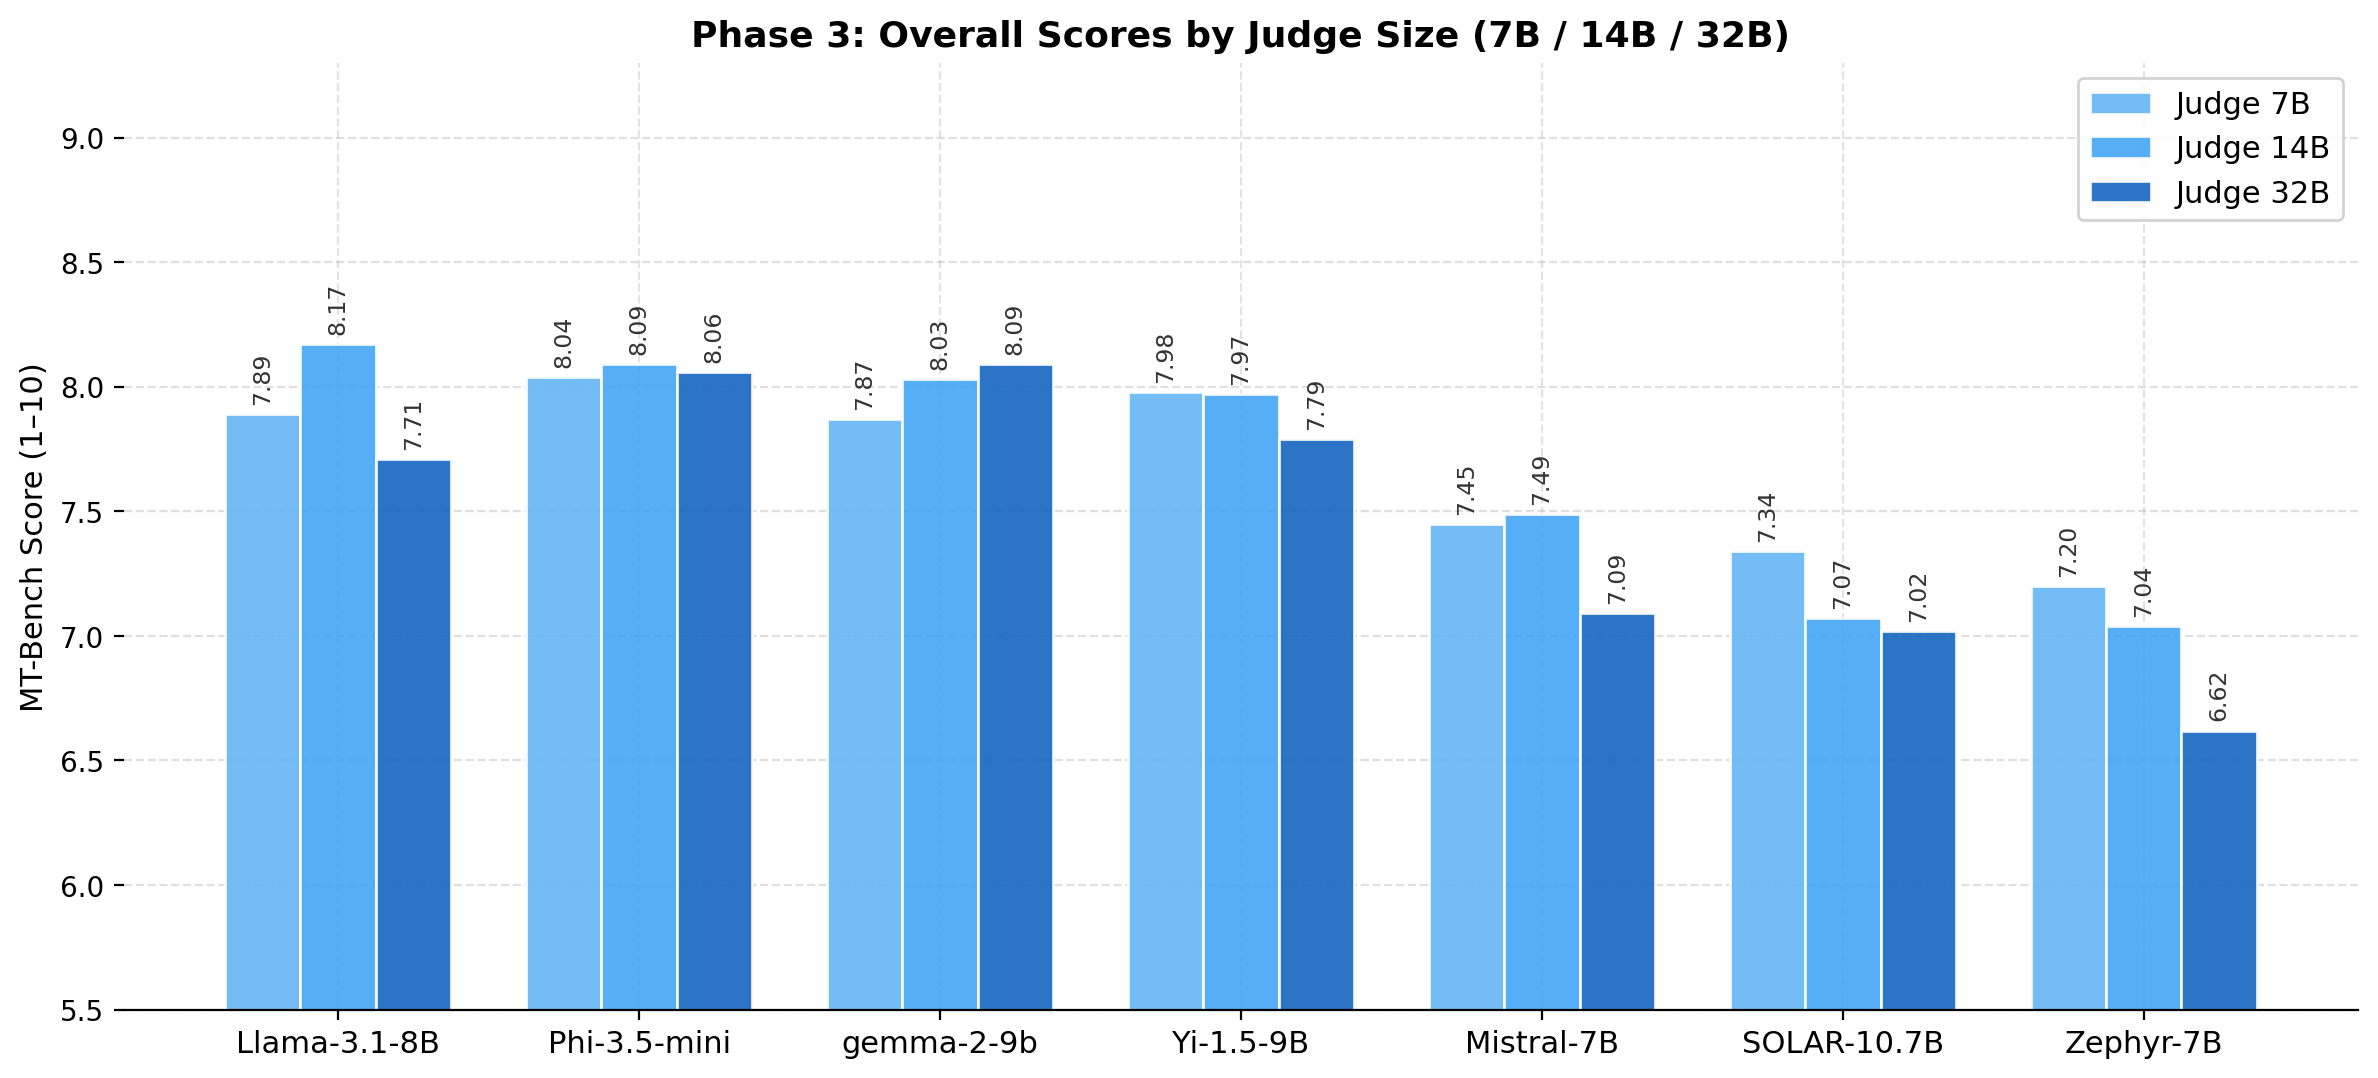
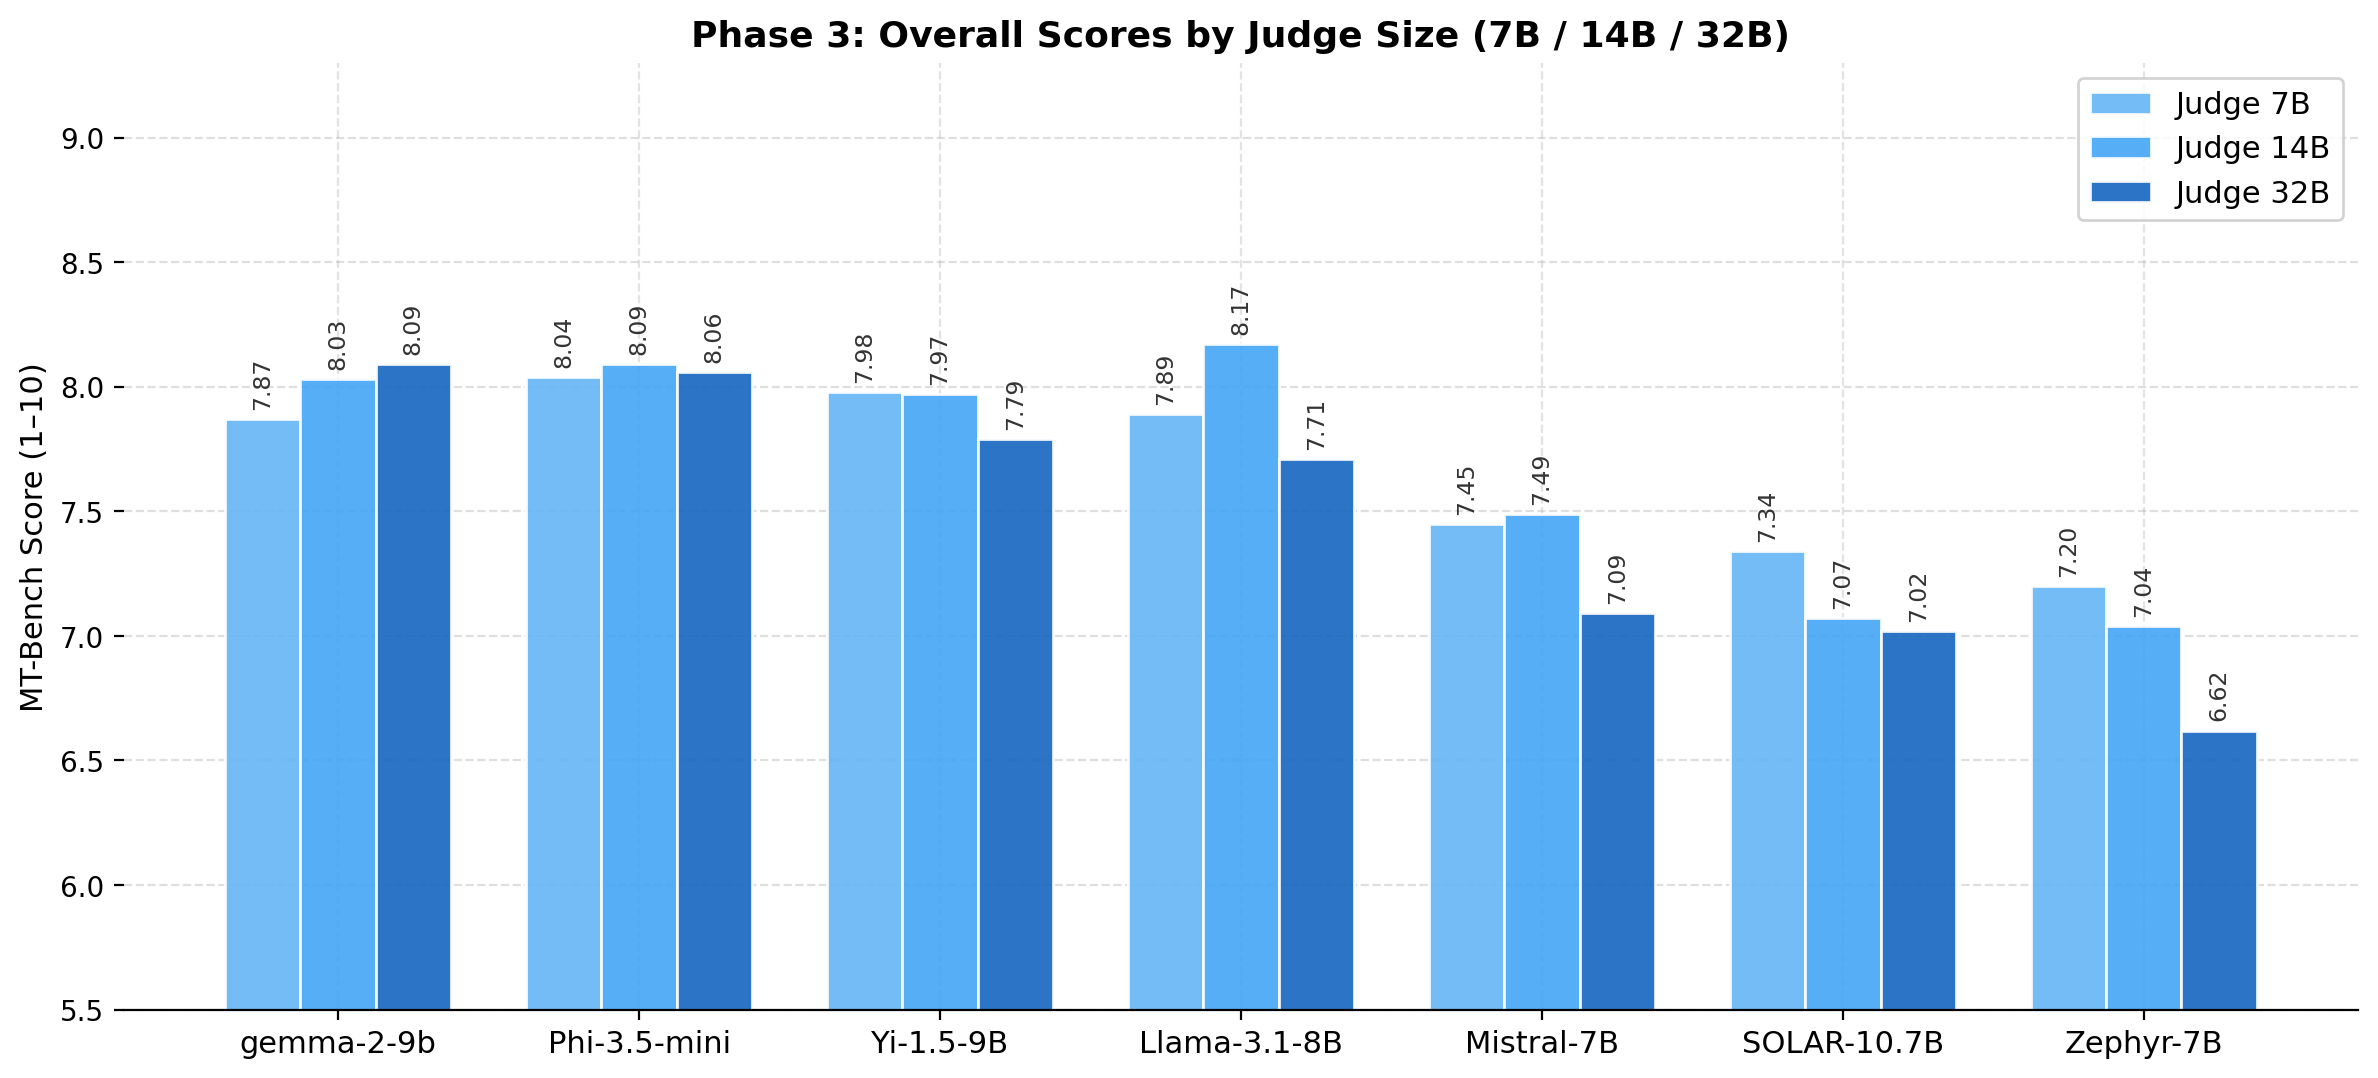
fix: regenerate all figures with Phase 3 as primary
- mt_bench_summary.png: panels A/B now show Phase 3 (32B judge) scores and heatmap
- fig5_phase3_scores.png: models sorted by 32B judge (not 14B)
- All Phase 3 figures sorted by 32B judge (primary — lowest inconsistency)
- Summary title updated to reflect Phase 3 primary results

diff --git a/scripts/generate_figures.py b/scripts/generate_figures.py
@@ -422,8 +422,8 @@ def fig_judge_scaling():
 def fig_phase3_scores():
     judge_sizes = ["7B", "14B", "32B"]
     models = PHASE3_MODELS_FULL
-    # sort by 14B score (canonical)
-    models_sorted = sorted(models, key=lambda m: PHASE3_OVERALL["14B"][m], reverse=True)
+    # sort by 32B score (주 judge — 불일치율 최소)
+    models_sorted = sorted(models, key=lambda m: PHASE3_OVERALL["32B"][m], reverse=True)
 
     x = np.arange(len(models_sorted))
     width = 0.25
@@ -564,33 +564,36 @@ def fig_summary_banner():
 
     gs = gridspec.GridSpec(2, 3, figure=fig, hspace=0.52, wspace=0.38)
 
-    # ── (A) Phase 2 Overall ───────────────────────────────────────────────────
+    # ── (A) Phase 3 Overall Scores — 32B judge (primary) ─────────────────────
     ax_a = fig.add_subplot(gs[0, 0])
-    models_sorted = sorted(PHASE2_OVERALL, key=lambda m: PHASE2_OVERALL[m])
-    vals = [PHASE2_OVERALL[m] for m in models_sorted]
-    colors = [PALETTE_MAIN[i] for i in range(len(models_sorted))]
-    bars = ax_a.barh(range(len(models_sorted)), vals, color=colors, edgecolor="white", height=0.65)
-    ax_a.set_yticks(range(len(models_sorted)))
-    ax_a.set_yticklabels(models_sorted, fontsize=10)
-    ax_a.set_xlim(6.5, 8.6)
-    ax_a.set_xlabel("Score (1–10)", fontsize=10)
-    ax_a.set_title("(A) Phase 2: Single-Answer Scores\n(Qwen2.5-14B Judge)", fontsize=11, fontweight="bold")
-    for i, (bar, val) in enumerate(zip(bars, vals)):
-        ax_a.text(val + 0.02, i, f"{val:.2f}", va="center", fontsize=9.5, color="#333", fontweight="bold")
+    models_32b = sorted(PHASE3_MODELS_FULL, key=lambda m: PHASE3_OVERALL["32B"][m])
+    vals_32b = [PHASE3_OVERALL["32B"][m] for m in models_32b]
+    colors_32b = [PALETTE_MAIN[i] for i in range(len(models_32b))]
+    bars = ax_a.barh(range(len(models_32b)), vals_32b, color=colors_32b,
+                     edgecolor="white", height=0.65)
+    ax_a.set_yticks(range(len(models_32b)))
+    ax_a.set_yticklabels(models_32b, fontsize=10)
+    ax_a.set_xlim(5.5, 8.8)
+    ax_a.set_xlabel("Score (1-10)", fontsize=10)
+    ax_a.set_title("(A) Phase 3: Model Scores\n(Qwen2.5-32B Judge -- Primary)", fontsize=11, fontweight="bold")
+    for i, (bar, val) in enumerate(zip(bars, vals_32b)):
+        ax_a.text(val + 0.04, i, f"{val:.2f}", va="center", fontsize=9.5,
+                  color="#333", fontweight="bold")
     ax_a.grid(True, axis="x", linestyle="--", alpha=0.4)
     ax_a.set_axisbelow(True)
     ax_a.spines["left"].set_visible(False)
     ax_a.tick_params(left=False)
 
-    # ── (B) Phase 2 Heatmap (6 models) ───────────────────────────────────────
+    # ── (B) Phase 3 Per-Category Heatmap — 32B judge ─────────────────────────
     ax_b = fig.add_subplot(gs[0, 1:])
-    models_b = list(PHASE2_SCORES.keys())
-    data_b   = np.array([PHASE2_SCORES[m] for m in models_b])
+    models_b = sorted(PHASE3_MODELS_FULL, key=lambda m: PHASE3_OVERALL["32B"][m], reverse=True)
+    data_b   = np.array([PHASE3_SCORES["32B"][m] for m in models_b])
     im_b = ax_b.imshow(data_b, aspect="auto", cmap="RdYlGn", vmin=4.5, vmax=9.0)
     ax_b.set_xticks(range(len(CATEGORIES)))
     ax_b.set_xticklabels(CAT_LABELS, fontsize=10, fontweight="bold")
     ax_b.set_yticks(range(len(models_b)))
-    ax_b.set_yticklabels([f"{m}  ({PHASE2_OVERALL[m]:.2f})" for m in models_b], fontsize=9.5)
+    ax_b.set_yticklabels(
+        [f"{m}  ({PHASE3_OVERALL['32B'][m]:.2f})" for m in models_b], fontsize=9.5)
     for i in range(len(models_b)):
         for j in range(len(CATEGORIES)):
             val = data_b[i, j]
@@ -598,7 +601,7 @@ def fig_summary_banner():
                       fontsize=9, color="black" if val > 6.5 else "white", fontweight="bold")
     cbar_b = fig.colorbar(im_b, ax=ax_b, fraction=0.02, pad=0.01)
     cbar_b.ax.tick_params(labelsize=8)
-    ax_b.set_title("(B) Phase 2: Per-Category Heatmap", fontsize=11, fontweight="bold")
+    ax_b.set_title("(B) Phase 3: Per-Category Scores (Qwen2.5-32B Judge)", fontsize=11, fontweight="bold")
     ax_b.spines[:].set_visible(False)
     ax_b.grid(False)
     ax_b.tick_params(top=True, bottom=False, labeltop=True, labelbottom=False)
@@ -626,7 +629,7 @@ def fig_summary_banner():
     # ── (D) Phase 3 Scores by Judge ───────────────────────────────────────────
     ax_d = fig.add_subplot(gs[1, 1])
     judge_sizes_d = ["7B", "14B", "32B"]
-    models_d = sorted(PHASE3_MODELS_FULL, key=lambda m: PHASE3_OVERALL["14B"][m], reverse=True)
+    models_d = sorted(PHASE3_MODELS_FULL, key=lambda m: PHASE3_OVERALL["32B"][m], reverse=True)
     x_d = np.arange(len(models_d))
     w_d = 0.25
     for i, (j, offset) in enumerate(zip(judge_sizes_d, [-w_d, 0, w_d])):
@@ -667,7 +670,7 @@ def fig_summary_banner():
     ax_e.grid(True, linestyle="--", alpha=0.4)
     ax_e.set_axisbelow(True)
 
-    fig.suptitle("MT-Bench Reproduction — Phase 1 / 2 / 3 Summary",
+    fig.suptitle("MT-Bench Reproduction -- Primary Results (Phase 3 / Qwen2.5-32B Judge)",
                  fontsize=16, fontweight="bold", y=1.01)
 
     out = FIGURES_DIR / "mt_bench_summary.png"
